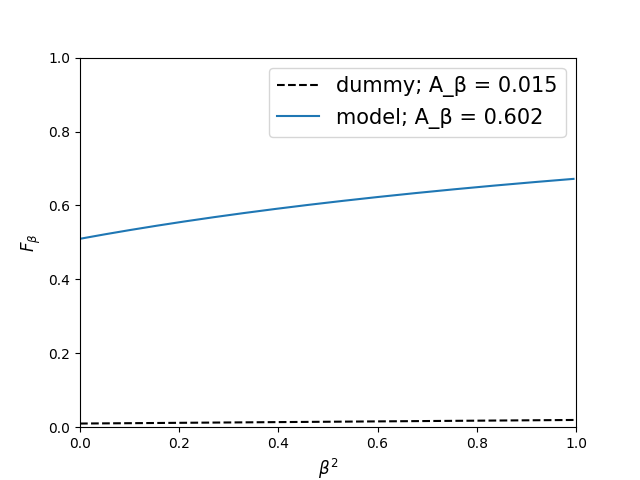
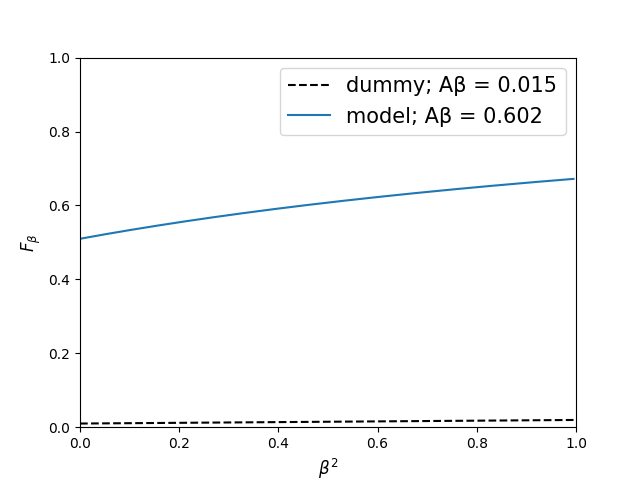
updating charts

Changed region(s): [[0.4375, 0.1562, 0.875, 0.3125], [0.7812, 0.1562, 0.875, 0.1875]]

diff --git a/Classification/src/fbeta_precision.py b/Classification/src/fbeta_precision.py
@@ -31,8 +31,8 @@ def fbeta(network_model, batch_size, n_epochs, optimizer, data_set='heridal', tr
     dummy = (beta2_array + 1)*(.5)/(.5*beta2_array + 1)
     dummy_area = (2*np.sum(dummy) - dummy[0] - dummy[199])/(2*199)
 
-    label = 'model; A_\u03B2 = {:.3f}'
-    dummy_label = 'dummy; A_\u03B2 = {:.3f}'
+    label = 'model; A\u03B2 = {:.3f}'
+    dummy_label = 'dummy; A\u03B2 = {:.3f}'
     plt.figure()
     plt.rc('axes', labelsize=12)
     plt.rc('legend', fontsize=15)
@@ -72,7 +72,7 @@ def fbeta(network_model, batch_size, n_epochs, optimizer, data_set='heridal', tr
         dummy = (beta2_array + 1)*(dummy_precision)/(dummy_precision*beta2_array + 1)
         dummy_area = (2*np.sum(dummy) - dummy[0] - dummy[199])/(2*199)
 
-        label = 'model; A_{\u03B2} = {:.3f}'
+        label = 'model; A\u03B2 = {:.3f}'
         dummy_label = 'dummy; A\u03B2 = {:.3f}'
         plt.figure()
         plt.rc('axes', labelsize=12)
